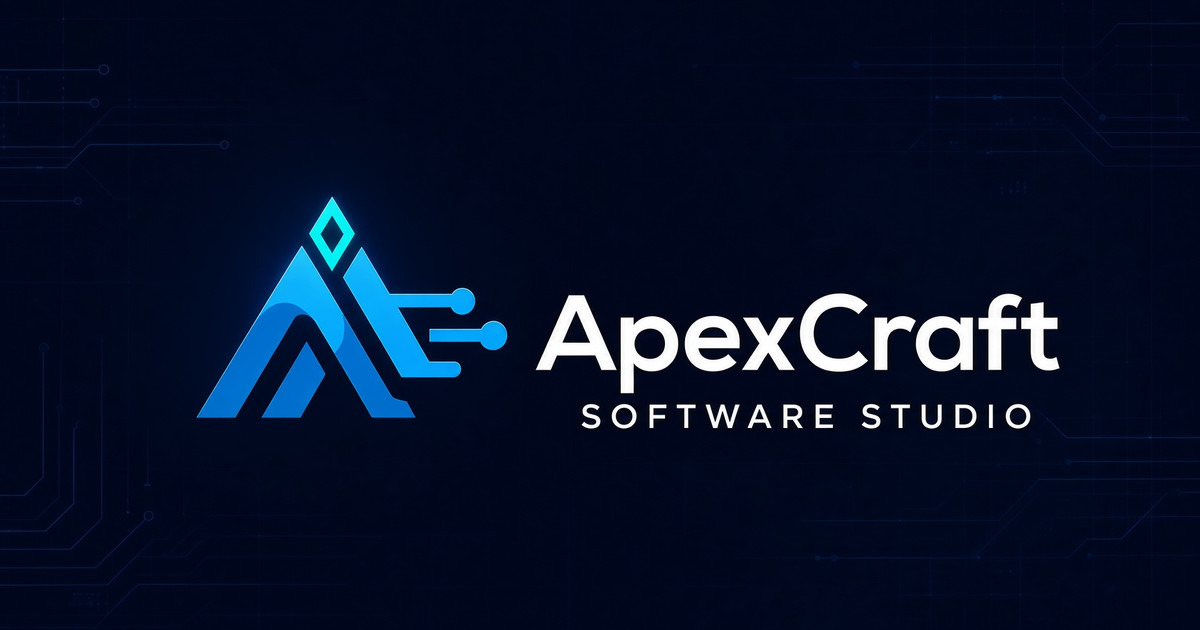
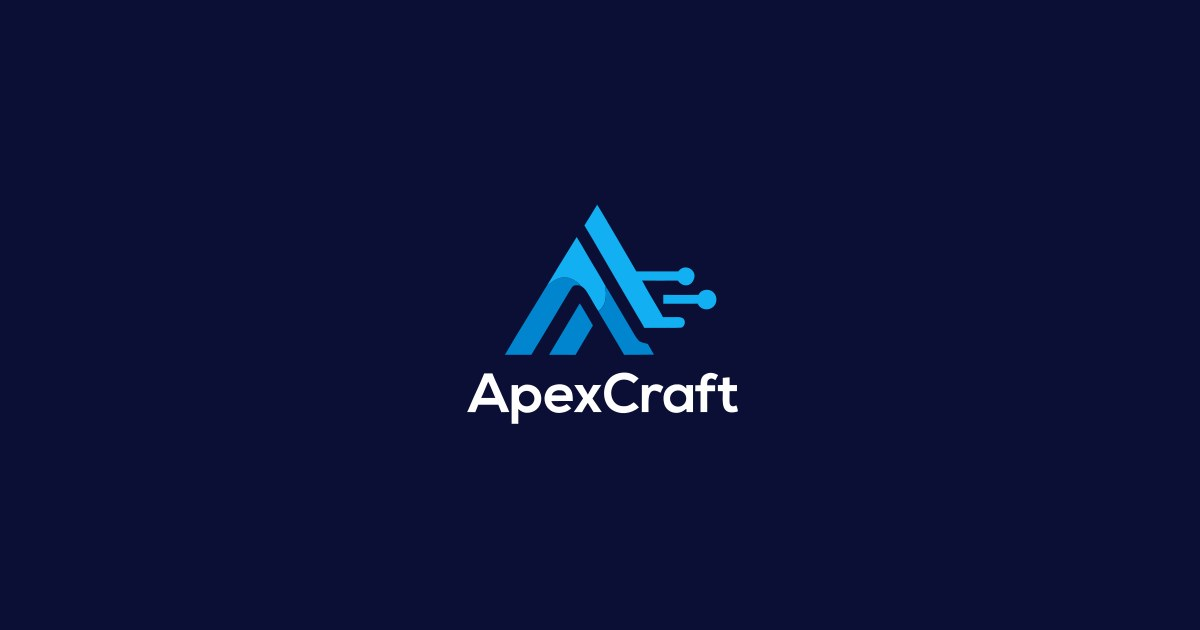
Ship Recraft SVG mark, refresh OG card, drop unused rasters.
Replace the traced favicon and header mark with the Recraft mark-only SVG,
center the lockup on the share card, and remove unused banner/lockup/PNG
brand files. Point privacy contact at the studio inbox.

diff --git a/privacy/tiny-wins/index.html b/privacy/tiny-wins/index.html
@@ -26,7 +26,7 @@
   <header class="site-header">
     <div class="wrap header-inner">
       <a class="brand" href="/">
-        <img src="/assets/apexcraft-mark.png" width="36" height="30" alt="">
+        <img src="/assets/apexcraft-mark.svg" width="36" height="36" alt="">
         <span>ApexCraft</span>
       </a>
       <nav class="nav" aria-label="Principal">
@@ -52,7 +52,7 @@
       <p class="publisher">Publicado por ApexCraft (ApexCraft-Br)</p>
       <p class="updated">Última atualização: <time datetime="2026-08-26">26 de agosto de 2026</time></p>
     </header>
-    <section id="who"><h2>Quem somos</h2><p>Esta política descreve o aplicativo Tiny Wins, publicado por ApexCraft (organização GitHub ApexCraft-Br). ApexCraft é um estúdio brasileiro de software.</p><p>Dúvidas sobre esta política ou sobre o Tiny Wins: <a href="mailto:danieltodt@gmail.com">danieltodt@gmail.com</a>.</p></section>
+    <section id="who"><h2>Quem somos</h2><p>Esta política descreve o aplicativo Tiny Wins, publicado por ApexCraft (organização GitHub ApexCraft-Br). ApexCraft é um estúdio brasileiro de software.</p><p>Dúvidas sobre esta política ou sobre o Tiny Wins: <a href="mailto:apexcraft@googlegroups.com">apexcraft@googlegroups.com</a>.</p></section>
 <section id="what"><h2>O que é o aplicativo</h2><p>O Tiny Wins é um aplicativo de produtividade para micro-hábitos que levam menos de dois minutos. Não há streaks, não há punição por pausar, e o progresso fica no aparelho.</p><p>O Tiny Wins não é um dispositivo médico. A categoria nas lojas é Produtividade.</p></section>
 <section id="data"><h2>Dados que armazenamos</h2><p>O Tiny Wins v1 não cria conta e não exige login. Não há sincronização na nuvem.</p><p>Tudo o que você registra permanece neste aparelho. Em v1 isso inclui:</p><ul><li>Hábitos que você cria (títulos escritos por você e metadados locais)</li><li>Histórico de vitórias (wins)</li><li>Progresso do avatar</li><li>Configurações (tema, acessibilidade, idioma, lembretes)</li><li>Sinal de onboarding (se você já passou pela introdução)</li></ul></section>
 <section id="leave"><h2>O que não sai do aparelho</h2><p>Títulos de hábitos escritos por você e o histórico de vitórias não saem do aparelho no v1. Não enviamos esses dados para a ApexCraft, para servidores nossos ou para terceiros.</p></section>
@@ -66,8 +66,8 @@
 <section id="children"><h2>Crianças</h2><p>O Tiny Wins não foi projetado para crianças. O público-alvo declarado no Google Play é 13 anos ou mais.</p><p>A classificação de conteúdo esperada (Everyone / ClassInd L) é resultado do questionário IARC e descreve o conteúdo, não o público-alvo. O Tiny Wins não participa do programa Designed for Families.</p></section>
 <section id="security"><h2>Segurança</h2><p>Os dados do v1 não trafegam pela rede. A proteção prática é a do próprio aparelho: bloqueio de tela, contas do sistema e o armazenamento isolado do aplicativo. Compilações de produção podem recusar continuar em aparelhos com integridade comprometida, sem enviar telemetria.</p></section>
 <section id="changes"><h2>Alterações</h2><p>Se esta política mudar, atualizaremos a data no topo desta página. A URL permanece <a href="https://apexcraft-br.github.io/privacy/tiny-wins/">https://apexcraft-br.github.io/privacy/tiny-wins/</a> — não renomeamos esse caminho.</p></section>
-<section id="contact"><h2>Contato</h2><p>ApexCraft (ApexCraft-Br). E-mail: <a href="mailto:danieltodt@gmail.com">danieltodt@gmail.com</a>.</p></section>
-    <p class="note">Contato: <a href="mailto:danieltodt@gmail.com">danieltodt@gmail.com</a></p>
+<section id="contact"><h2>Contato</h2><p>ApexCraft (ApexCraft-Br). E-mail: <a href="mailto:apexcraft@googlegroups.com">apexcraft@googlegroups.com</a>.</p></section>
+    <p class="note">Contato: <a href="mailto:apexcraft@googlegroups.com">apexcraft@googlegroups.com</a></p>
   </article>
     <article class="policy policy-en" lang="en" id="en">
     <header>
@@ -76,7 +76,7 @@
       <p class="publisher">Published by ApexCraft (ApexCraft-Br)</p>
       <p class="updated">Last updated: <time datetime="2026-08-26">26 August 2026</time></p>
     </header>
-    <section id="who"><h2>Who we are</h2><p>This policy describes the Tiny Wins app, published by ApexCraft (GitHub organization ApexCraft-Br). ApexCraft is a Brazilian software studio.</p><p>Questions about this policy or Tiny Wins: <a href="mailto:danieltodt@gmail.com">danieltodt@gmail.com</a>.</p></section>
+    <section id="who"><h2>Who we are</h2><p>This policy describes the Tiny Wins app, published by ApexCraft (GitHub organization ApexCraft-Br). ApexCraft is a Brazilian software studio.</p><p>Questions about this policy or Tiny Wins: <a href="mailto:apexcraft@googlegroups.com">apexcraft@googlegroups.com</a>.</p></section>
 <section id="what"><h2>What the app is</h2><p>Tiny Wins is a productivity app for micro-habits that take under two minutes. There are no streaks, no punishment for pausing, and progress stays on the device.</p><p>Tiny Wins is not a medical device. The store category is Productivity.</p></section>
 <section id="data"><h2>Data we store</h2><p>Tiny Wins v1 has no account and no forced login. There is no cloud sync.</p><p>Everything you record stays on this device. In v1 that includes:</p><ul><li>Habits you create (titles you type and local metadata)</li><li>Win history</li><li>Avatar progress</li><li>Settings (theme, accessibility, language, reminders)</li><li>Onboarding flag (whether you have finished the intro)</li></ul></section>
 <section id="leave"><h2>What never leaves the device</h2><p>User-authored habit titles and win history never leave the device in v1. We do not send that data to ApexCraft, to our servers, or to third parties.</p></section>
@@ -90,8 +90,8 @@
 <section id="children"><h2>Children</h2><p>Tiny Wins is not designed for children. The declared Google Play target audience is 13 and older.</p><p>The expected content rating (Everyone / ClassInd L) comes from the IARC questionnaire and describes the content, not the target audience. Tiny Wins is not enrolled in Designed for Families.</p></section>
 <section id="security"><h2>Security</h2><p>v1 data does not travel over the network. Practical protection is that of the device itself: screen lock, system accounts, and the app’s isolated storage. Production builds may refuse to continue on a compromised device, without sending telemetry.</p></section>
 <section id="changes"><h2>Changes</h2><p>If this policy changes, we will update the date at the top of this page. The URL stays <a href="https://apexcraft-br.github.io/privacy/tiny-wins/">https://apexcraft-br.github.io/privacy/tiny-wins/</a> — we do not rename that path.</p></section>
-<section id="contact"><h2>Contact</h2><p>ApexCraft (ApexCraft-Br). Email: <a href="mailto:danieltodt@gmail.com">danieltodt@gmail.com</a>.</p></section>
-    <p class="note">Contact: <a href="mailto:danieltodt@gmail.com">danieltodt@gmail.com</a></p>
+<section id="contact"><h2>Contact</h2><p>ApexCraft (ApexCraft-Br). Email: <a href="mailto:apexcraft@googlegroups.com">apexcraft@googlegroups.com</a>.</p></section>
+    <p class="note">Contact: <a href="mailto:apexcraft@googlegroups.com">apexcraft@googlegroups.com</a></p>
   </article>
   </main>
   <script>
@@ -107,7 +107,7 @@
       <p>© 2026 ApexCraft (ApexCraft-Br). Todos os direitos reservados.</p>
       <p class="footer-links">
         <a href="/privacy/">Privacidade</a>
-        <a href="mailto:danieltodt@gmail.com">Contato</a>
+        <a href="mailto:apexcraft@googlegroups.com">Contato</a>
       </p>
     </div>
   </footer>

diff --git a/en/privacy/tiny-wins/index.html b/en/privacy/tiny-wins/index.html
@@ -26,7 +26,7 @@
   <header class="site-header">
     <div class="wrap header-inner">
       <a class="brand" href="/en/">
-        <img src="/assets/apexcraft-mark.png" width="36" height="30" alt="">
+        <img src="/assets/apexcraft-mark.svg" width="36" height="36" alt="">
         <span>ApexCraft</span>
       </a>
       <nav class="nav" aria-label="Primary">
@@ -52,7 +52,7 @@
       <p class="publisher">Publicado por ApexCraft (ApexCraft-Br)</p>
       <p class="updated">Última atualização: <time datetime="2026-08-26">26 de agosto de 2026</time></p>
     </header>
-    <section id="who"><h2>Quem somos</h2><p>Esta política descreve o aplicativo Tiny Wins, publicado por ApexCraft (organização GitHub ApexCraft-Br). ApexCraft é um estúdio brasileiro de software.</p><p>Dúvidas sobre esta política ou sobre o Tiny Wins: <a href="mailto:danieltodt@gmail.com">danieltodt@gmail.com</a>.</p></section>
+    <section id="who"><h2>Quem somos</h2><p>Esta política descreve o aplicativo Tiny Wins, publicado por ApexCraft (organização GitHub ApexCraft-Br). ApexCraft é um estúdio brasileiro de software.</p><p>Dúvidas sobre esta política ou sobre o Tiny Wins: <a href="mailto:apexcraft@googlegroups.com">apexcraft@googlegroups.com</a>.</p></section>
 <section id="what"><h2>O que é o aplicativo</h2><p>O Tiny Wins é um aplicativo de produtividade para micro-hábitos que levam menos de dois minutos. Não há streaks, não há punição por pausar, e o progresso fica no aparelho.</p><p>O Tiny Wins não é um dispositivo médico. A categoria nas lojas é Produtividade.</p></section>
 <section id="data"><h2>Dados que armazenamos</h2><p>O Tiny Wins v1 não cria conta e não exige login. Não há sincronização na nuvem.</p><p>Tudo o que você registra permanece neste aparelho. Em v1 isso inclui:</p><ul><li>Hábitos que você cria (títulos escritos por você e metadados locais)</li><li>Histórico de vitórias (wins)</li><li>Progresso do avatar</li><li>Configurações (tema, acessibilidade, idioma, lembretes)</li><li>Sinal de onboarding (se você já passou pela introdução)</li></ul></section>
 <section id="leave"><h2>O que não sai do aparelho</h2><p>Títulos de hábitos escritos por você e o histórico de vitórias não saem do aparelho no v1. Não enviamos esses dados para a ApexCraft, para servidores nossos ou para terceiros.</p></section>
@@ -66,8 +66,8 @@
 <section id="children"><h2>Crianças</h2><p>O Tiny Wins não foi projetado para crianças. O público-alvo declarado no Google Play é 13 anos ou mais.</p><p>A classificação de conteúdo esperada (Everyone / ClassInd L) é resultado do questionário IARC e descreve o conteúdo, não o público-alvo. O Tiny Wins não participa do programa Designed for Families.</p></section>
 <section id="security"><h2>Segurança</h2><p>Os dados do v1 não trafegam pela rede. A proteção prática é a do próprio aparelho: bloqueio de tela, contas do sistema e o armazenamento isolado do aplicativo. Compilações de produção podem recusar continuar em aparelhos com integridade comprometida, sem enviar telemetria.</p></section>
 <section id="changes"><h2>Alterações</h2><p>Se esta política mudar, atualizaremos a data no topo desta página. A URL permanece <a href="https://apexcraft-br.github.io/privacy/tiny-wins/">https://apexcraft-br.github.io/privacy/tiny-wins/</a> — não renomeamos esse caminho.</p></section>
-<section id="contact"><h2>Contato</h2><p>ApexCraft (ApexCraft-Br). E-mail: <a href="mailto:danieltodt@gmail.com">danieltodt@gmail.com</a>.</p></section>
-    <p class="note">Contato: <a href="mailto:danieltodt@gmail.com">danieltodt@gmail.com</a></p>
+<section id="contact"><h2>Contato</h2><p>ApexCraft (ApexCraft-Br). E-mail: <a href="mailto:apexcraft@googlegroups.com">apexcraft@googlegroups.com</a>.</p></section>
+    <p class="note">Contato: <a href="mailto:apexcraft@googlegroups.com">apexcraft@googlegroups.com</a></p>
   </article>
     <article class="policy policy-en" lang="en" id="en">
     <header>
@@ -76,7 +76,7 @@
       <p class="publisher">Published by ApexCraft (ApexCraft-Br)</p>
       <p class="updated">Last updated: <time datetime="2026-08-26">26 August 2026</time></p>
     </header>
-    <section id="who"><h2>Who we are</h2><p>This policy describes the Tiny Wins app, published by ApexCraft (GitHub organization ApexCraft-Br). ApexCraft is a Brazilian software studio.</p><p>Questions about this policy or Tiny Wins: <a href="mailto:danieltodt@gmail.com">danieltodt@gmail.com</a>.</p></section>
+    <section id="who"><h2>Who we are</h2><p>This policy describes the Tiny Wins app, published by ApexCraft (GitHub organization ApexCraft-Br). ApexCraft is a Brazilian software studio.</p><p>Questions about this policy or Tiny Wins: <a href="mailto:apexcraft@googlegroups.com">apexcraft@googlegroups.com</a>.</p></section>
 <section id="what"><h2>What the app is</h2><p>Tiny Wins is a productivity app for micro-habits that take under two minutes. There are no streaks, no punishment for pausing, and progress stays on the device.</p><p>Tiny Wins is not a medical device. The store category is Productivity.</p></section>
 <section id="data"><h2>Data we store</h2><p>Tiny Wins v1 has no account and no forced login. There is no cloud sync.</p><p>Everything you record stays on this device. In v1 that includes:</p><ul><li>Habits you create (titles you type and local metadata)</li><li>Win history</li><li>Avatar progress</li><li>Settings (theme, accessibility, language, reminders)</li><li>Onboarding flag (whether you have finished the intro)</li></ul></section>
 <section id="leave"><h2>What never leaves the device</h2><p>User-authored habit titles and win history never leave the device in v1. We do not send that data to ApexCraft, to our servers, or to third parties.</p></section>
@@ -90,8 +90,8 @@
 <section id="children"><h2>Children</h2><p>Tiny Wins is not designed for children. The declared Google Play target audience is 13 and older.</p><p>The expected content rating (Everyone / ClassInd L) comes from the IARC questionnaire and describes the content, not the target audience. Tiny Wins is not enrolled in Designed for Families.</p></section>
 <section id="security"><h2>Security</h2><p>v1 data does not travel over the network. Practical protection is that of the device itself: screen lock, system accounts, and the app’s isolated storage. Production builds may refuse to continue on a compromised device, without sending telemetry.</p></section>
 <section id="changes"><h2>Changes</h2><p>If this policy changes, we will update the date at the top of this page. The URL stays <a href="https://apexcraft-br.github.io/privacy/tiny-wins/">https://apexcraft-br.github.io/privacy/tiny-wins/</a> — we do not rename that path.</p></section>
-<section id="contact"><h2>Contact</h2><p>ApexCraft (ApexCraft-Br). Email: <a href="mailto:danieltodt@gmail.com">danieltodt@gmail.com</a>.</p></section>
-    <p class="note">Contact: <a href="mailto:danieltodt@gmail.com">danieltodt@gmail.com</a></p>
+<section id="contact"><h2>Contact</h2><p>ApexCraft (ApexCraft-Br). Email: <a href="mailto:apexcraft@googlegroups.com">apexcraft@googlegroups.com</a>.</p></section>
+    <p class="note">Contact: <a href="mailto:apexcraft@googlegroups.com">apexcraft@googlegroups.com</a></p>
   </article>
   </main>
   <script>
@@ -107,7 +107,7 @@
       <p>© 2026 ApexCraft (ApexCraft-Br). All rights reserved.</p>
       <p class="footer-links">
         <a href="/en/privacy/">Privacy</a>
-        <a href="mailto:danieltodt@gmail.com">Contact</a>
+        <a href="mailto:apexcraft@googlegroups.com">Contact</a>
       </p>
     </div>
   </footer>

diff --git a/apps/our-finances/index.html b/apps/our-finances/index.html
@@ -4,7 +4,7 @@
   <meta charset="utf-8">
   <meta name="viewport" content="width=device-width, initial-scale=1">
   <title>Nossas Finanças — ApexCraft</title>
-  <meta name="description" content="Gestão financeira pessoal e da casa. Offline-first. Em desenvolvimento.">
+  <meta name="description" content="Gestão financeira pessoal e da casa. Em desenvolvimento.">
   <meta name="theme-color" content="#06101F">
   <link rel="canonical" href="https://apexcraft-br.github.io/apps/our-finances/">
   <link rel="alternate" hreflang="pt-BR" href="https://apexcraft-br.github.io/apps/our-finances/">
@@ -14,7 +14,7 @@
   <link rel="stylesheet" href="https://fonts.googleapis.com/css2?family=Plus+Jakarta+Sans:ital,wght@0,400;0,500;0,600;0,700;1,400&display=swap">
   <link rel="stylesheet" href="/assets/site.css">
   <meta property="og:title" content="Nossas Finanças — ApexCraft">
-  <meta property="og:description" content="Gestão financeira pessoal e da casa. Offline-first. Em desenvolvimento.">
+  <meta property="og:description" content="Gestão financeira pessoal e da casa. Em desenvolvimento.">
   <meta property="og:url" content="https://apexcraft-br.github.io/apps/our-finances/">
   <meta property="og:image" content="https://apexcraft-br.github.io/assets/og.jpg">
   <meta property="og:type" content="website">
@@ -26,7 +26,7 @@
   <header class="site-header">
     <div class="wrap header-inner">
       <a class="brand" href="/">
-        <img src="/assets/apexcraft-mark.png" width="36" height="30" alt="">
+        <img src="/assets/apexcraft-mark.svg" width="36" height="36" alt="">
         <span>ApexCraft</span>
       </a>
       <nav class="nav" aria-label="Principal">
@@ -54,7 +54,7 @@
       <p>© 2026 ApexCraft (ApexCraft-Br). Todos os direitos reservados.</p>
       <p class="footer-links">
         <a href="/privacy/">Privacidade</a>
-        <a href="mailto:danieltodt@gmail.com">Contato</a>
+        <a href="mailto:apexcraft@googlegroups.com">Contato</a>
       </p>
     </div>
   </footer>

diff --git a/en/apps/our-finances/index.html b/en/apps/our-finances/index.html
@@ -4,7 +4,7 @@
   <meta charset="utf-8">
   <meta name="viewport" content="width=device-width, initial-scale=1">
   <title>Nossas Finanças — ApexCraft</title>
-  <meta name="description" content="Personal and household finance. Offline-first. In development.">
+  <meta name="description" content="Personal and household finance. In development.">
   <meta name="theme-color" content="#06101F">
   <link rel="canonical" href="https://apexcraft-br.github.io/en/apps/our-finances/">
   <link rel="alternate" hreflang="pt-BR" href="https://apexcraft-br.github.io/apps/our-finances/">
@@ -14,7 +14,7 @@
   <link rel="stylesheet" href="https://fonts.googleapis.com/css2?family=Plus+Jakarta+Sans:ital,wght@0,400;0,500;0,600;0,700;1,400&display=swap">
   <link rel="stylesheet" href="/assets/site.css">
   <meta property="og:title" content="Nossas Finanças — ApexCraft">
-  <meta property="og:description" content="Personal and household finance. Offline-first. In development.">
+  <meta property="og:description" content="Personal and household finance. In development.">
   <meta property="og:url" content="https://apexcraft-br.github.io/en/apps/our-finances/">
   <meta property="og:image" content="https://apexcraft-br.github.io/assets/og.jpg">
   <meta property="og:type" content="website">
@@ -26,7 +26,7 @@
   <header class="site-header">
     <div class="wrap header-inner">
       <a class="brand" href="/en/">
-        <img src="/assets/apexcraft-mark.png" width="36" height="30" alt="">
+        <img src="/assets/apexcraft-mark.svg" width="36" height="36" alt="">
         <span>ApexCraft</span>
       </a>
       <nav class="nav" aria-label="Primary">
@@ -54,7 +54,7 @@
       <p>© 2026 ApexCraft (ApexCraft-Br). All rights reserved.</p>
       <p class="footer-links">
         <a href="/en/privacy/">Privacy</a>
-        <a href="mailto:danieltodt@gmail.com">Contact</a>
+        <a href="mailto:apexcraft@googlegroups.com">Contact</a>
       </p>
     </div>
   </footer>

diff --git a/index.html b/index.html
@@ -26,7 +26,7 @@
   <header class="site-header">
     <div class="wrap header-inner">
       <a class="brand" href="/">
-        <img src="/assets/apexcraft-mark.png" width="36" height="30" alt="">
+        <img src="/assets/apexcraft-mark.svg" width="36" height="36" alt="">
         <span>ApexCraft</span>
       </a>
       <nav class="nav" aria-label="Principal">
@@ -62,7 +62,7 @@
           <div class="card-top"><span class="icon-stub" aria-hidden="true"><svg viewBox="0 0 24 24" width="24" height="24" fill="none"><rect x="4" y="5" width="16" height="14" rx="2" stroke="currentColor" stroke-width="1.6"/><path d="M8 10h8M8 14h5" stroke="currentColor" stroke-width="1.6" stroke-linecap="round"/></svg></span><span class="badge">Em desenvolvimento</span></div>
           <h3>Nossas Finanças</h3>
           <p class="meta">Finanças</p>
-          <p>Gestão financeira pessoal e da casa. Offline-first.</p>
+          <p>Gestão financeira pessoal e da casa.</p>
           <span class="cta-row">Abrir →</span>
         </a>
       </li></ul>
@@ -79,7 +79,7 @@
       <p>© 2026 ApexCraft (ApexCraft-Br). Todos os direitos reservados.</p>
       <p class="footer-links">
         <a href="/privacy/">Privacidade</a>
-        <a href="mailto:danieltodt@gmail.com">Contato</a>
+        <a href="mailto:apexcraft@googlegroups.com">Contato</a>
       </p>
     </div>
   </footer>

diff --git a/en/index.html b/en/index.html
@@ -26,7 +26,7 @@
   <header class="site-header">
     <div class="wrap header-inner">
       <a class="brand" href="/en/">
-        <img src="/assets/apexcraft-mark.png" width="36" height="30" alt="">
+        <img src="/assets/apexcraft-mark.svg" width="36" height="36" alt="">
         <span>ApexCraft</span>
       </a>
       <nav class="nav" aria-label="Primary">
@@ -62,7 +62,7 @@
           <div class="card-top"><span class="icon-stub" aria-hidden="true"><svg viewBox="0 0 24 24" width="24" height="24" fill="none"><rect x="4" y="5" width="16" height="14" rx="2" stroke="currentColor" stroke-width="1.6"/><path d="M8 10h8M8 14h5" stroke="currentColor" stroke-width="1.6" stroke-linecap="round"/></svg></span><span class="badge">In development</span></div>
           <h3>Nossas Finanças</h3>
           <p class="meta">Finance</p>
-          <p>Personal and household finance. Offline-first.</p>
+          <p>Personal and household finance.</p>
           <span class="cta-row">Open →</span>
         </a>
       </li></ul>
@@ -79,7 +79,7 @@
       <p>© 2026 ApexCraft (ApexCraft-Br). All rights reserved.</p>
       <p class="footer-links">
         <a href="/en/privacy/">Privacy</a>
-        <a href="mailto:danieltodt@gmail.com">Contact</a>
+        <a href="mailto:apexcraft@googlegroups.com">Contact</a>
       </p>
     </div>
   </footer>

diff --git a/404.html b/404.html
@@ -26,7 +26,7 @@
   <header class="site-header">
     <div class="wrap header-inner">
       <a class="brand" href="/">
-        <img src="/assets/apexcraft-mark.png" width="36" height="30" alt="">
+        <img src="/assets/apexcraft-mark.svg" width="36" height="36" alt="">
         <span>ApexCraft</span>
       </a>
       <nav class="nav" aria-label="Principal">
@@ -50,7 +50,7 @@
       <p>© 2026 ApexCraft (ApexCraft-Br). Todos os direitos reservados.</p>
       <p class="footer-links">
         <a href="/privacy/">Privacidade</a>
-        <a href="mailto:danieltodt@gmail.com">Contato</a>
+        <a href="mailto:apexcraft@googlegroups.com">Contato</a>
       </p>
     </div>
   </footer>

diff --git a/apps/tiny-wins/index.html b/apps/tiny-wins/index.html
@@ -26,7 +26,7 @@
   <header class="site-header">
     <div class="wrap header-inner">
       <a class="brand" href="/">
-        <img src="/assets/apexcraft-mark.png" width="36" height="30" alt="">
+        <img src="/assets/apexcraft-mark.svg" width="36" height="36" alt="">
         <span>ApexCraft</span>
       </a>
       <nav class="nav" aria-label="Principal">
@@ -60,7 +60,7 @@
       <p>© 2026 ApexCraft (ApexCraft-Br). Todos os direitos reservados.</p>
       <p class="footer-links">
         <a href="/privacy/">Privacidade</a>
-        <a href="mailto:danieltodt@gmail.com">Contato</a>
+        <a href="mailto:apexcraft@googlegroups.com">Contato</a>
       </p>
     </div>
   </footer>

diff --git a/privacy/index.html b/privacy/index.html
@@ -26,7 +26,7 @@
   <header class="site-header">
     <div class="wrap header-inner">
       <a class="brand" href="/">
-        <img src="/assets/apexcraft-mark.png" width="36" height="30" alt="">
+        <img src="/assets/apexcraft-mark.svg" width="36" height="36" alt="">
         <span>ApexCraft</span>
       </a>
       <nav class="nav" aria-label="Principal">
@@ -58,7 +58,7 @@
       <p>© 2026 ApexCraft (ApexCraft-Br). Todos os direitos reservados.</p>
       <p class="footer-links">
         <a href="/privacy/">Privacidade</a>
-        <a href="mailto:danieltodt@gmail.com">Contato</a>
+        <a href="mailto:apexcraft@googlegroups.com">Contato</a>
       </p>
     </div>
   </footer>

diff --git a/en/apps/tiny-wins/index.html b/en/apps/tiny-wins/index.html
@@ -26,7 +26,7 @@
   <header class="site-header">
     <div class="wrap header-inner">
       <a class="brand" href="/en/">
-        <img src="/assets/apexcraft-mark.png" width="36" height="30" alt="">
+        <img src="/assets/apexcraft-mark.svg" width="36" height="36" alt="">
         <span>ApexCraft</span>
       </a>
       <nav class="nav" aria-label="Primary">
@@ -60,7 +60,7 @@
       <p>© 2026 ApexCraft (ApexCraft-Br). All rights reserved.</p>
       <p class="footer-links">
         <a href="/en/privacy/">Privacy</a>
-        <a href="mailto:danieltodt@gmail.com">Contact</a>
+        <a href="mailto:apexcraft@googlegroups.com">Contact</a>
       </p>
     </div>
   </footer>

diff --git a/en/privacy/index.html b/en/privacy/index.html
@@ -26,7 +26,7 @@
   <header class="site-header">
     <div class="wrap header-inner">
       <a class="brand" href="/en/">
-        <img src="/assets/apexcraft-mark.png" width="36" height="30" alt="">
+        <img src="/assets/apexcraft-mark.svg" width="36" height="36" alt="">
         <span>ApexCraft</span>
       </a>
       <nav class="nav" aria-label="Primary">
@@ -58,7 +58,7 @@
       <p>© 2026 ApexCraft (ApexCraft-Br). All rights reserved.</p>
       <p class="footer-links">
         <a href="/en/privacy/">Privacy</a>
-        <a href="mailto:danieltodt@gmail.com">Contact</a>
+        <a href="mailto:apexcraft@googlegroups.com">Contact</a>
       </p>
     </div>
   </footer>

diff --git a/assets/site.css b/assets/site.css
@@ -154,7 +154,7 @@ p {
 
 .brand img {
   width: 36px;
-  height: 30px;
+  height: 36px;
   object-fit: contain;
 }
 
